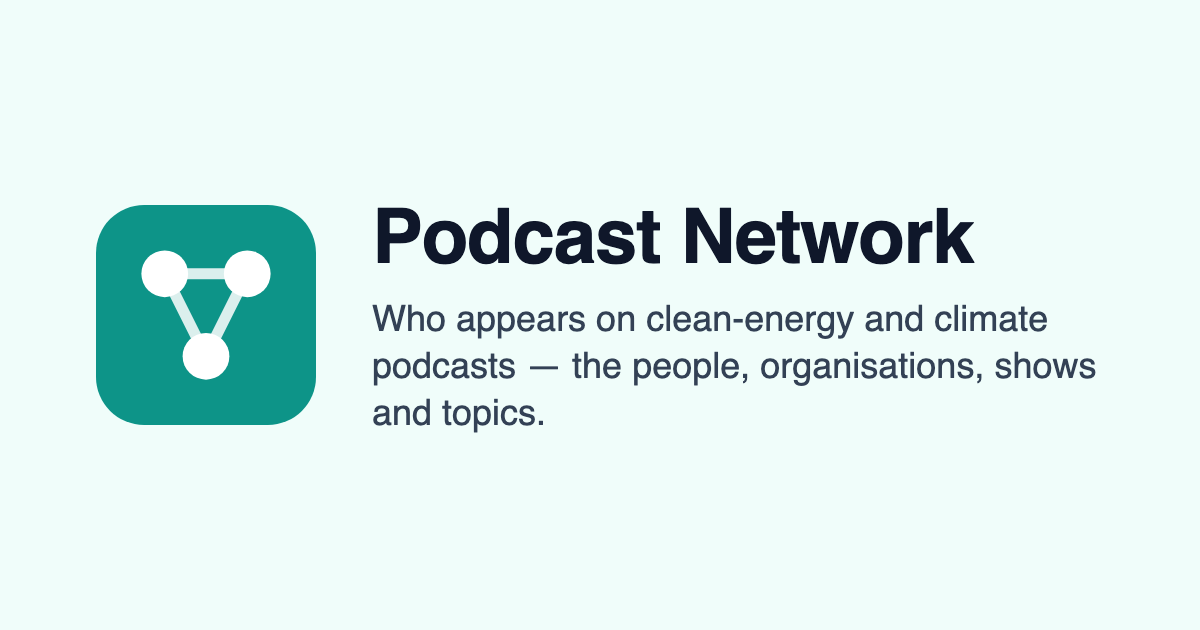
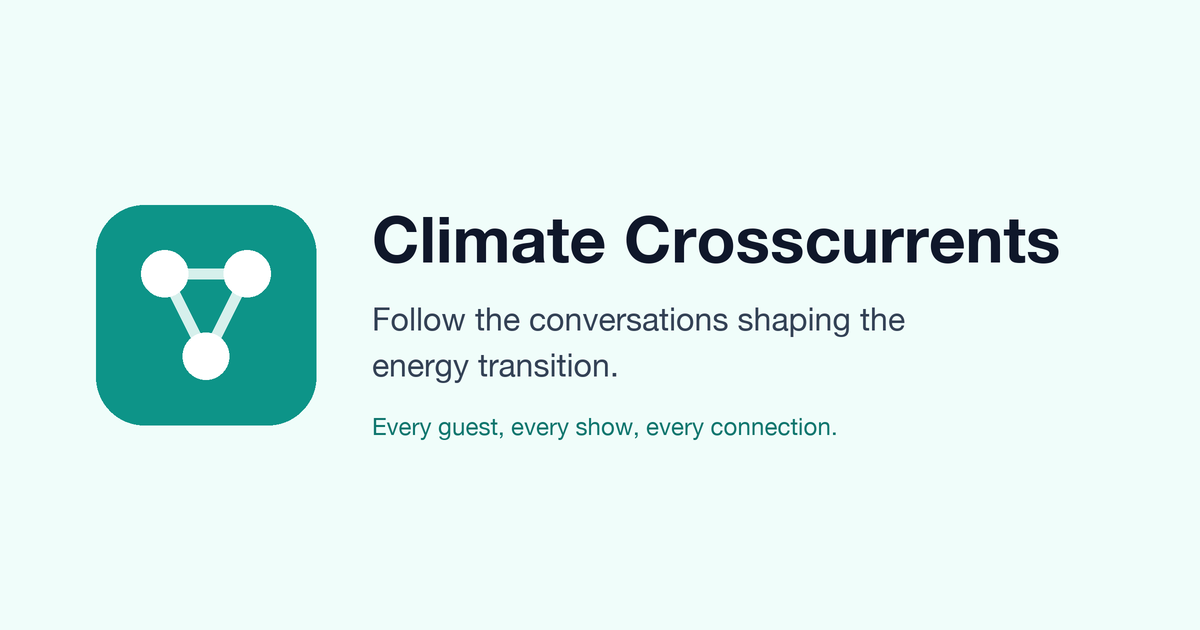
Branding: Climate Crosscurrents
Site name, tagline ("Follow the conversations shaping the energy
transition") and descriptor ("Every guest, every show, every connection in
clean-energy podcasting") in the header, home sidebar, page titles, meta and
link-preview tags, manifest and a redrawn og-image.png. The header is a
little taller, with the tagline under the name, and on wide screens its
links start at the graph sidebar's edge.

Claude-Session: https://claude.ai/code/session_01XBBuPn7SFbubi85cDY5GHq

diff --git a/frontend/public/index.html b/frontend/public/index.html
@@ -8,15 +8,15 @@
     <meta name="theme-color" content="#0d9488" />
     <meta
       name="description"
-      content="Who appears on clean-energy and climate podcasts: an interactive map of hosts and guests, and the people, organizations, shows and topics behind them."
+      content="Every guest, every show, every connection in clean-energy podcasting."
     />
     <!-- Link previews (Slack, LinkedIn, X…). These crawlers don't run the
          app's JavaScript, so every page shares this card; pages set their own
          title and description for search engines that do. -->
     <meta property="og:type" content="website" />
-    <meta property="og:site_name" content="Podcast Network" />
-    <meta property="og:title" content="Podcast Network · who appears on clean-energy podcasts" />
-    <meta property="og:description" content="An interactive map of the hosts and guests of clean-energy and climate podcasts, and the people, organizations, shows and topics behind them." />
+    <meta property="og:site_name" content="Climate Crosscurrents" />
+    <meta property="og:title" content="Climate Crosscurrents · Follow the conversations shaping the energy transition" />
+    <meta property="og:description" content="Every guest, every show, every connection in clean-energy podcasting." />
     <meta property="og:image" content="https://podcast-network-frontend.onrender.com/og-image.png" />
     <meta property="og:image:width" content="1200" />
     <meta property="og:image:height" content="630" />
@@ -39,7 +39,7 @@
       work correctly both with client-side routing and a non-root public URL.
       Learn how to configure a non-root public URL by running `npm run build`.
     -->
-    <title>Podcast Network</title>
+    <title>Climate Crosscurrents</title>
   </head>
   <body>
     <noscript>You need to enable JavaScript to run this app.</noscript>

diff --git a/frontend/src/components/PodcastHostNetwork.js b/frontend/src/components/PodcastHostNetwork.js
@@ -978,8 +978,8 @@ const PodcastHostNetwork = () => {
     try { return !window.matchMedia('(max-width: 639px)').matches; } catch { return true; }
   });
   const [sidebarOpen, setSidebarOpen] = useState(false);
-  useEffect(() => setMeta('Podcast Network · who appears on clean-energy podcasts',
-    'An interactive map of the hosts and guests of clean-energy and climate podcasts, and the shows that connect them.'), []);
+  useEffect(() => setMeta('Climate Crosscurrents · Follow the conversations shaping the energy transition',
+    'Every guest, every show, every connection in clean-energy podcasting.'), []);
   const [searchQuery, setSearchQuery] = useState('');
   const [lastUpdated, setLastUpdated] = useState(null);
   const [dimensions, setDimensions] = useState({
@@ -1579,6 +1579,10 @@ const PodcastHostNetwork = () => {
             }}
           />
         ) : (
+          <>
+          <p className="text-sm text-gray-600 mb-3">
+            Every guest, every show, every connection in clean-energy podcasting.
+          </p>
           <FilterPanel
             onFiltersChange={handleFiltersChange}
             networkStats={networkStats}
@@ -1593,6 +1597,7 @@ const PodcastHostNetwork = () => {
             broadTopics={broadTopics}
             loadingMembers={loadingMembers}
           />
+          </>
         )}
 
         <div className="mt-auto pt-3 text-center space-y-1">

diff --git a/frontend/src/components/SiteHeader.js b/frontend/src/components/SiteHeader.js
@@ -20,8 +20,13 @@ const loggedIn = () => { try { return !!getAdminPassword(); } catch { return fal
 export default function SiteHeader() {
   const path = window.location.pathname;
   return (
-    <header className="bg-white border-b border-gray-200 px-4 sm:px-6 py-2.5 flex flex-wrap items-center gap-x-5 gap-y-2 text-left">
-      <a href="/" className="font-bold text-gray-900 whitespace-nowrap">Podcast Network</a>
+    <header className="bg-white border-b border-gray-200 px-4 sm:px-6 py-3.5 flex flex-wrap items-center gap-x-5 gap-y-2 text-left">
+      {/* Sized so the nav starts where the graph page's 24rem sidebar ends:
+          24rem less the header's left padding (1.5rem) and the gap (1.25rem). */}
+      <a href="/" className="whitespace-nowrap leading-tight lg:w-[21.25rem] lg:shrink-0">
+        <span className="block font-bold text-gray-900">Climate Crosscurrents</span>
+        <span className="hidden lg:block text-xs text-gray-500">Follow the conversations shaping the energy transition</span>
+      </a>
       <nav className="order-last w-full md:order-none md:w-auto flex gap-0.5 sm:gap-1 overflow-x-auto -mx-1 px-1">
         {NAV.map(([href, label, short]) => (
           <a key={href} href={href} aria-current={isActive(href, path) ? 'page' : undefined}

diff --git a/frontend/src/components/OrgDirectory.js b/frontend/src/components/OrgDirectory.js
@@ -8,7 +8,7 @@ import { orgHref, fmtMonthYear, plural, setMeta } from '../profileUtils';
 const SORTS = [['people', 'Most people'], ['discussed', 'Most discussed'], ['recent', 'Most recent'], ['name', 'A–Z']];
 
 export default function OrgDirectory() {
-  useEffect(() => setMeta('Organizations · Podcast Network',
+  useEffect(() => setMeta('Organizations · Climate Crosscurrents',
     'The companies, investors, universities and agencies whose people are guests on clean-energy podcasts.'), []);
   const [params, set] = useUrlParams({ q: '', type: '', sort: 'people' });
   const state = useDirectory('orgs', params);

diff --git a/frontend/src/profileUtils.js b/frontend/src/profileUtils.js
@@ -157,7 +157,7 @@ export function useProfile(kind, prefix, describe, endpoint = (id) => `/api/${ki
           try { window.history.replaceState(null, '', want + window.location.search); } catch { /* sandboxed */ }
         }
         const [title, description] = describe(data);
-        setMeta(`${title} · Podcast Network`, description);
+        setMeta(`${title} · Climate Crosscurrents`, description);
         setState({ data, error: null });
       })
       .catch(e => { if (!canceled) setState({ data: null, error: e.message === 'not_found' ? 'not_found' : 'error' }); });

diff --git a/frontend/src/components/NotFound.js b/frontend/src/components/NotFound.js
@@ -5,7 +5,7 @@ import { setMeta } from '../profileUtils';
 // Any address the app doesn't know. (The static host still answers 200 —
 // every path serves index.html — so this is for people, not crawlers.)
 export default function NotFound() {
-  useEffect(() => setMeta('Page not found · Podcast Network', ''), []);
+  useEffect(() => setMeta('Page not found · Climate Crosscurrents', ''), []);
   return (
     <SiteShell>
       <section className="bg-white rounded-2xl border border-gray-200 p-8 text-center space-y-3">

diff --git a/frontend/src/components/PeopleDirectory.js b/frontend/src/components/PeopleDirectory.js
@@ -9,7 +9,7 @@ const COLORS = { ...ROLE_COLORS, host: '#0d9488' };
 
 export default function PeopleDirectory() {
   useShowOrgs();
-  useEffect(() => setMeta('People · Podcast Network',
+  useEffect(() => setMeta('People · Climate Crosscurrents',
     'Everyone who has hosted or been a guest on a clean-energy podcast, with their current role and appearances.'), []);
   const [params, set] = useUrlParams({ q: '', kind: '', sort: 'appearances', topic: '' });
   const state = useDirectory('people', params);

diff --git a/frontend/src/components/TopicDirectory.js b/frontend/src/components/TopicDirectory.js
@@ -40,7 +40,7 @@ function Browse({ broad, category }) {
 }
 
 export default function TopicDirectory() {
-  useEffect(() => setMeta('Topics · Podcast Network',
+  useEffect(() => setMeta('Topics · Climate Crosscurrents',
     'What clean-energy and climate podcasts talk about: topics from geothermal to permitting, with the people and shows behind each.'), []);
   const [params, set] = useUrlParams({ q: '', category: '', sort: 'episodes' });
   const state = useDirectory('/api/topics', params, 100);

diff --git a/frontend/src/components/ShowDirectory.js b/frontend/src/components/ShowDirectory.js
@@ -14,7 +14,7 @@ const COMPARE = {
 };
 
 export default function ShowDirectory() {
-  useEffect(() => setMeta('Shows · Podcast Network',
+  useEffect(() => setMeta('Shows · Climate Crosscurrents',
     'Every clean-energy and climate podcast we track: who hosts it, how often it publishes, and how many guests it has had.'), []);
   const [params, set] = useUrlParams({ q: '', sort: 'guests' });
   const [state, setState] = useState({ rows: null, error: false });

diff --git a/frontend/src/components/Stats.js b/frontend/src/components/Stats.js
@@ -42,7 +42,7 @@ function initialView() {
 
 export default function Stats() {
   const [view, setView] = useState(initialView);
-  useEffect(() => setMeta('Stats · Podcast Network',
+  useEffect(() => setMeta('Stats · Climate Crosscurrents',
     'Who gets booked on clean-energy podcasts: the organizations, guests, shows and topics, in charts.'), []);
 
   // replaceState, as on the Network page: switching tabs shouldn't stack up
